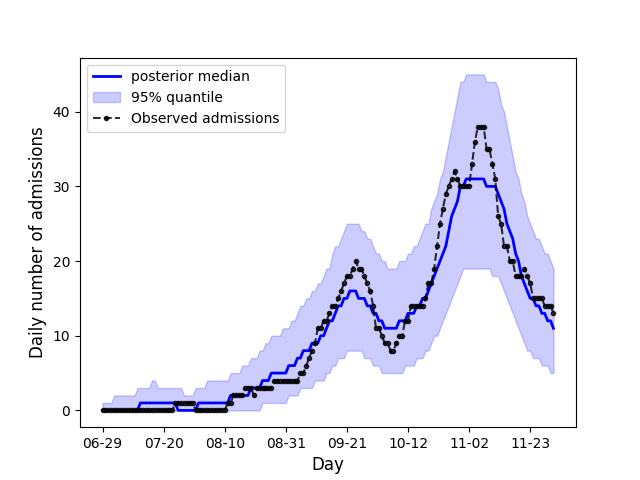
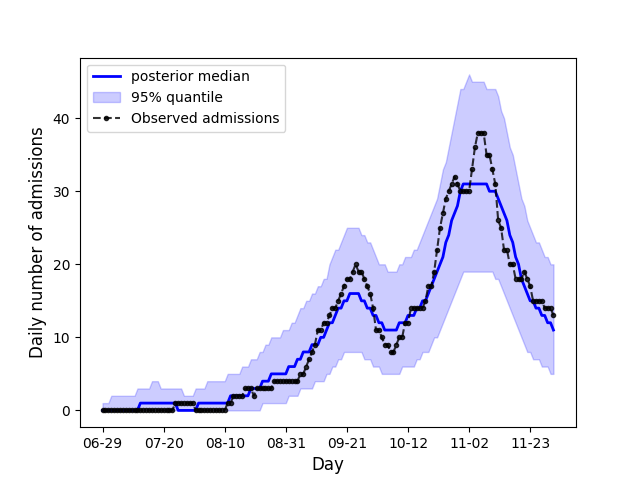
changed to normal to compute the ages

diff --git a/model_daily.py b/model_daily.py
@@ -4,6 +4,7 @@ import pytensor
 
 
 def daily_admissions_model(cases, observed_admissions):
+    
 
     delay_matrix_0 = make_delay_matrix(len(cases), len(cases), 0)
 
@@ -12,12 +13,14 @@ def daily_admissions_model(cases, observed_admissions):
         ph = pm.Uniform(name='pH', lower=0, upper=1)
         admissions_lambda = pm.Uniform(name='admissions_lambda', lower=0.1, upper=20)
         sigma = pm.Uniform(name='sigma', lower=1, upper=100)
+        
 
         # trainning
         new_hospitalized = ph * cases
         admissions = delay_cases(new_hospitalized, admissions_lambda, delay_matrix_0)
-        pm.NegativeBinomial(name='admissions', mu=admissions, alpha=sigma,
+        pm.Normal(name='admissions', mu=admissions, sigma=sigma,
                             observed=observed_admissions)
+        print(f'observed es \n {observed_admissions}')
 
     return model
 
@@ -73,7 +76,7 @@ def daily_switchpoints_model(cases, observed_admissions, admissions_lambda, n_sw
         # trainning
         new_hospitalized = rate * cases
         admissions = delay_cases(new_hospitalized, admissions_lambda, delay_matrix_0)
-        pm.NegativeBinomial(name='admissions', mu=admissions, alpha=sigma,
+        pm.Normal(name='admissions', mu=admissions, sigma=sigma,
                             observed=observed_admissions)
 
     return model

diff --git a/train_ages.py b/train_ages.py
@@ -29,8 +29,9 @@ def train_daily_model_ages(region, start_date='2020-06-29', end_date='2020-12-01
             cases = cases_edad['num_casos']
 
             hospitalized_edad = hospitalized_per_age[hospitalized_per_age['grupo_edad']==edad]
-            hospitalized = hospitalized_edad['num_hosp']
+            hospitalized = hospitalized_edad['num_hosp'].astype('float')
             print(f' numero maximo de hospitalizados es {hospitalized.max()}')
+            #print(hospitalized)
 
             
 
@@ -38,11 +39,12 @@ def train_daily_model_ages(region, start_date='2020-06-29', end_date='2020-12-01
                 # Sample from the posterior
                 idata = pm.sample(draws=draws, tune=burn, chains=n_chains, 
                                 return_inferencedata=True, target_accept=0.95, idata_kwargs={"log_likelihood": True})
+                print(idata.observed_data['admissions'])
                 
                 # Generate posterior predictive samples
                 idata.extend(pm.sample_posterior_predictive(idata))
                 print(f'data keys are : {idata.posterior_predictive.data_vars}')
-
+                
 
                 if verbose:
                     az.summary(idata)

diff --git a/utils_ages.py b/utils_ages.py
@@ -39,11 +39,13 @@ def load_spanish_ages(region, start_date, end_date, aggregate_week, deaths):
     data = data.loc[start_date:end_date]
     if aggregate_week:
         data['num_casos'] = data.groupby('grupo_edad')['num_casos'].rolling(window=7, min_periods=1).mean().reset_index(level=0, drop=True)
+        data['num_casos_avg'] = data.groupby('grupo_edad')['num_casos'].rolling(window=7, min_periods=1).mean().reset_index(level=0, drop=True)
+
         data['num_hosp'] = data.groupby('grupo_edad')['num_hosp'].rolling(window=7, min_periods=1).mean().reset_index(level=0, drop=True)
     data = data.reset_index()
     cases_per_age = data[['num_casos', 'grupo_edad']]
     if not deaths:
-        pred = data[['num_hosp','grupo_edad']]
+        pred = data[['num_hosp','grupo_edad','fecha']]
     else:
         pred = data[['num_def','grupo_edad']]
 

diff --git a/plots.py b/plots.py
@@ -58,7 +58,7 @@ def plot_daily_switchpoints(data, start_date, end_date, trace, n_switchpoints,re
         dates, posterior_quantile[0, :], posterior_quantile[4, :],
         color='#68C5DB', label='95% quantile', alpha=.2
     )
-
+    print(data['hospitalized'])
     plt.plot(
         dates, data['hospitalized'], '.', color = '#02182B',
         alpha=0.6, markersize=4, label='Observed admissions')
